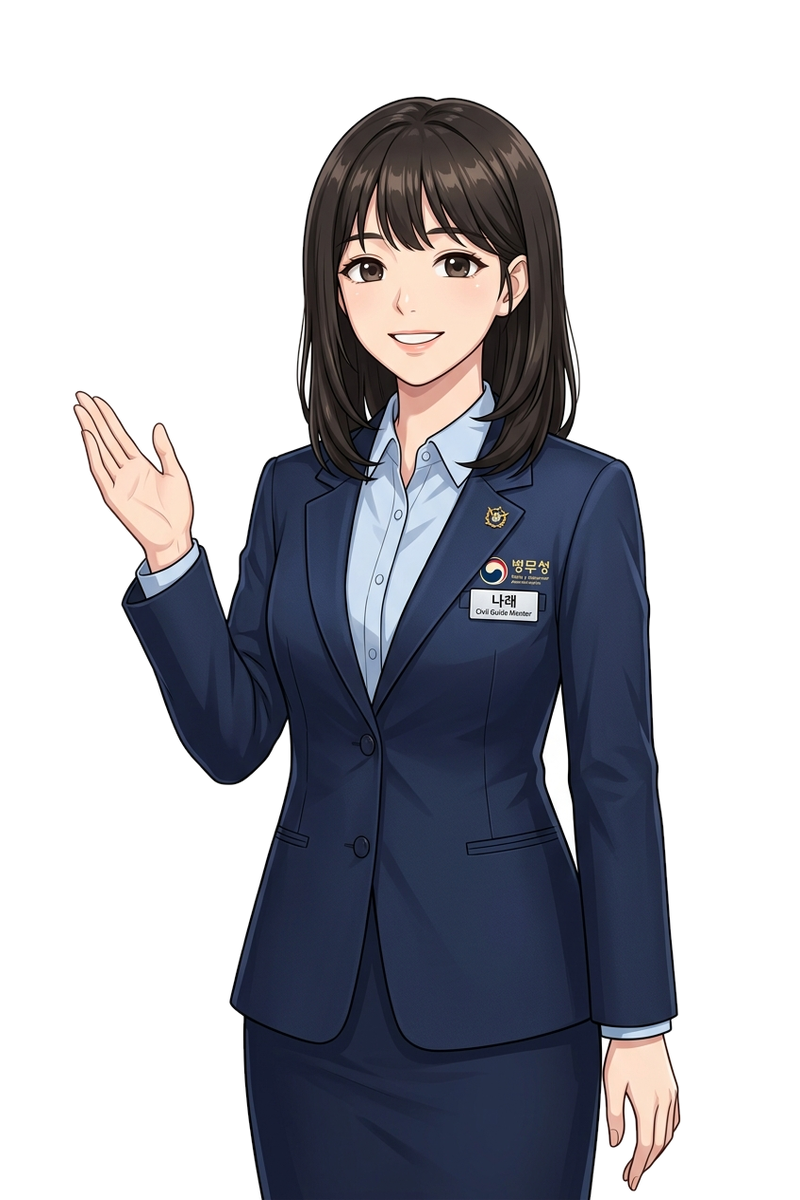
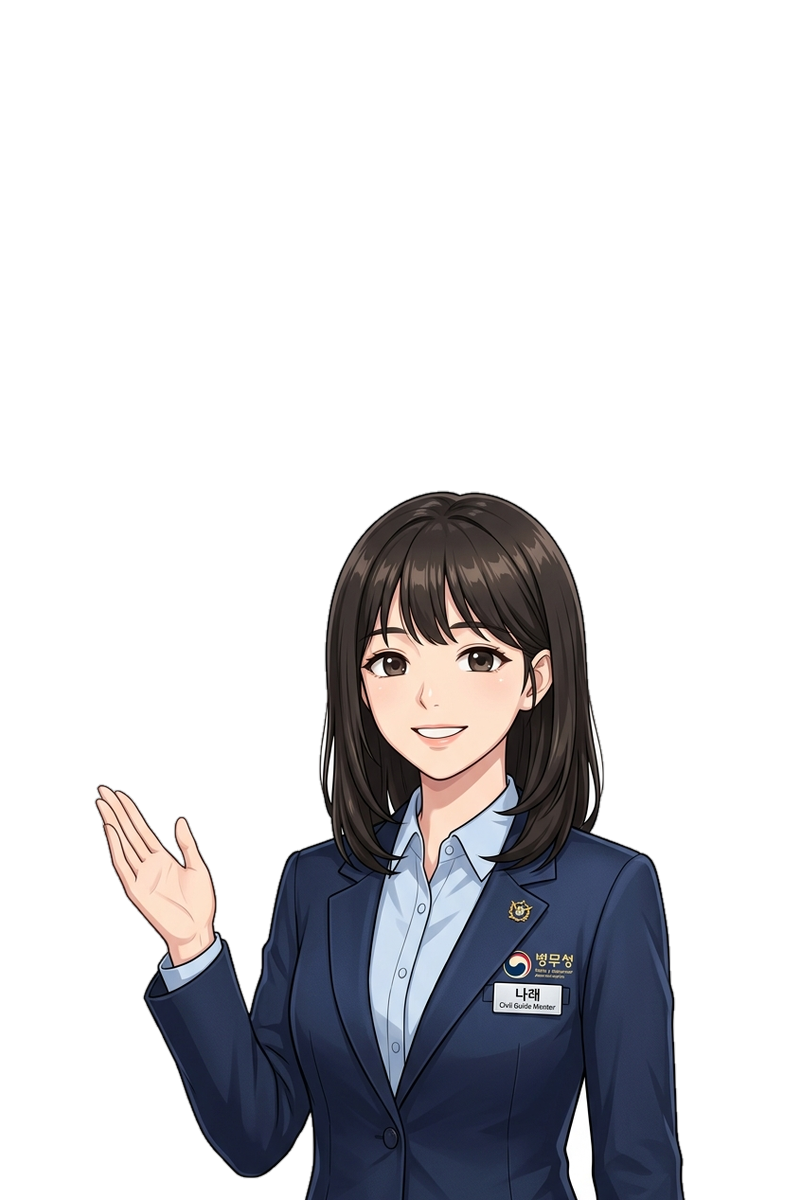
fix: normalize sprite scale/position for new mentors and resolve TTS preview bugs

diff --git a/index.html b/index.html
@@ -900,7 +900,7 @@
               </div>
             </div>
             <div class="flex items-center gap-2 shrink-0">
-              <button type="button" onclick="event.stopPropagation(); previewGuideVoice('himchan');" class="px-2.5 py-1.5 rounded-lg bg-blue-600/20 hover:bg-blue-600/40 text-blue-300 border border-blue-500/30 flex items-center gap-1 font-bold text-xs cursor-pointer transition">
+              <button id="btn-preview-settings-himchan" type="button" onclick="event.stopPropagation(); previewGuideVoice('himchan');" class="px-2.5 py-1.5 rounded-lg bg-blue-600/20 hover:bg-blue-600/40 text-blue-300 border border-blue-500/30 flex items-center gap-1 font-bold text-xs cursor-pointer transition">
                 <i data-lucide="volume-2" class="w-3.5 h-3.5"></i> <span>미리듣기</span>
               </button>
               <span class="guide-check-indicator w-5 h-5 rounded-full border border-slate-600 flex items-center justify-center shrink-0 text-blue-400"></span>
@@ -921,7 +921,7 @@
               </div>
             </div>
             <div class="flex items-center gap-2 shrink-0">
-              <button type="button" onclick="event.stopPropagation(); previewGuideVoice('narae');" class="px-2.5 py-1.5 rounded-lg bg-rose-600/20 hover:bg-rose-600/40 text-rose-300 border border-rose-500/30 flex items-center gap-1 font-bold text-xs cursor-pointer transition">
+              <button id="btn-preview-settings-narae" type="button" onclick="event.stopPropagation(); previewGuideVoice('narae');" class="px-2.5 py-1.5 rounded-lg bg-rose-600/20 hover:bg-rose-600/40 text-rose-300 border border-rose-500/30 flex items-center gap-1 font-bold text-xs cursor-pointer transition">
                 <i data-lucide="volume-2" class="w-3.5 h-3.5"></i> <span>미리듣기</span>
               </button>
               <span class="guide-check-indicator w-5 h-5 rounded-full border border-slate-600 flex items-center justify-center shrink-0 text-rose-400"></span>
@@ -942,7 +942,7 @@
               </div>
             </div>
             <div class="flex items-center gap-2 shrink-0">
-              <button type="button" onclick="event.stopPropagation(); previewGuideVoice('seojun');" class="px-2.5 py-1.5 rounded-lg bg-emerald-600/20 hover:bg-emerald-600/40 text-emerald-300 border border-emerald-500/30 flex items-center gap-1 font-bold text-xs cursor-pointer transition">
+              <button id="btn-preview-settings-seojun" type="button" onclick="event.stopPropagation(); previewGuideVoice('seojun');" class="px-2.5 py-1.5 rounded-lg bg-emerald-600/20 hover:bg-emerald-600/40 text-emerald-300 border border-emerald-500/30 flex items-center gap-1 font-bold text-xs cursor-pointer transition">
                 <i data-lucide="volume-2" class="w-3.5 h-3.5"></i> <span>미리듣기</span>
               </button>
               <span class="guide-check-indicator w-5 h-5 rounded-full border border-slate-600 flex items-center justify-center shrink-0 text-emerald-400"></span>
@@ -1062,6 +1062,8 @@
     // 가이드 캐릭터 페르소나 설정 컨트롤러
     let isFromIntroWidget = false;
     let previewAudio = null;
+    let currentPreviewId = null;
+    let previewVoiceSeq = 0;
 
     function openSettingsModal(fromIntro = false) {
       isFromIntroWidget = fromIntro;
@@ -1092,33 +1094,126 @@
     }
 
     function stopPreviewAudio() {
+      previewVoiceSeq++;
       if (previewAudio) {
         try {
           previewAudio.pause();
           previewAudio.currentTime = 0;
+          previewAudio.src = "";
         } catch (e) {}
         previewAudio = null;
       }
+      currentPreviewId = null;
+      if ('speechSynthesis' in window) {
+        try { window.speechSynthesis.cancel(); } catch (e) {}
+      }
+      resetAllPreviewButtons();
     }
 
-    function previewGuideVoice(guideId) {
+    function resetAllPreviewButtons() {
+      const isEn = (currentLang === 'en');
+      ['himchan', 'narae', 'seojun'].forEach(id => {
+        const btnIntro = document.getElementById(`btn-preview-intro-${id}`);
+        if (btnIntro) {
+          btnIntro.classList.remove('bg-amber-600/30', 'text-amber-300', 'border-amber-400');
+          btnIntro.innerHTML = `<i data-lucide="volume-2" class="w-4 h-4"></i> <span>${isEn ? 'Voice Preview' : '목소리 미리듣기'}</span>`;
+        }
+        const btnSettings = document.getElementById(`btn-preview-settings-${id}`);
+        if (btnSettings) {
+          btnSettings.classList.remove('bg-amber-600/30', 'text-amber-300', 'border-amber-400');
+          btnSettings.innerHTML = `<i data-lucide="volume-2" class="w-3.5 h-3.5"></i> <span>${isEn ? 'Preview' : '미리듣기'}</span>`;
+        }
+      });
+      if (window.lucide) lucide.createIcons();
+    }
+
+    function togglePreviewGuideVoice(guideId) {
+      // 이미 해당 멘토의 미리듣기가 재생 중이면 즉각 정지 (토글 동작)
+      if (currentPreviewId === guideId) {
+        stopPreviewAudio();
+        return;
+      }
+
       stopPreviewAudio();
-      stopVoiceAudio();
+      if (typeof stopVoiceAudio === 'function') {
+        stopVoiceAudio();
+      }
+
       if (typeof GUIDE_PERSONAS === 'undefined' || !GUIDE_PERSONAS[guideId]) return;
       const g = GUIDE_PERSONAS[guideId];
       const isEn = (currentLang === 'en');
       const text = isEn ? g.sampleQuote_en : g.sampleQuote;
+      const seq = ++previewVoiceSeq;
+      currentPreviewId = guideId;
+
+      // 버튼 시각 상태 '재생 중/정지'로 변경
+      const btnIntro = document.getElementById(`btn-preview-intro-${guideId}`);
+      if (btnIntro) {
+        btnIntro.classList.add('bg-amber-600/30', 'text-amber-300', 'border-amber-400');
+        btnIntro.innerHTML = `<i data-lucide="volume-x" class="w-4 h-4 animate-pulse"></i> <span>${isEn ? 'Stop' : '미리듣기 정지'}</span>`;
+      }
+      const btnSettings = document.getElementById(`btn-preview-settings-${guideId}`);
+      if (btnSettings) {
+        btnSettings.classList.add('bg-amber-600/30', 'text-amber-300', 'border-amber-400');
+        btnSettings.innerHTML = `<i data-lucide="volume-x" class="w-3.5 h-3.5 animate-pulse"></i> <span>${isEn ? 'Stop' : '정지'}</span>`;
+      }
+      if (window.lucide) lucide.createIcons();
+
       const ttsUrl = `/api/tts?speaker=${encodeURIComponent(g.name)}&text=${encodeURIComponent(text)}&lang=${currentLang || 'ko'}&guide=${encodeURIComponent(guideId)}`;
-      
-      previewAudio = new Audio(ttsUrl);
-      previewAudio.play().catch(err => {
-        // Fallback WebSpeech
-        if ('speechSynthesis' in window) {
-          const utterance = new SpeechSynthesisUtterance(text);
-          utterance.lang = isEn ? 'en-US' : 'ko-KR';
-          window.speechSynthesis.speak(utterance);
+      const audio = new Audio();
+      previewAudio = audio;
+
+      const finishPreview = () => {
+        if (seq === previewVoiceSeq) {
+          stopPreviewAudio();
         }
-      });
+      };
+
+      audio.onended = finishPreview;
+      audio.onerror = () => {
+        if (seq !== previewVoiceSeq) return;
+        if ('speechSynthesis' in window) {
+          try {
+            window.speechSynthesis.cancel();
+            const utterance = new SpeechSynthesisUtterance(text);
+            utterance.lang = isEn ? 'en-US' : 'ko-KR';
+            utterance.onend = finishPreview;
+            utterance.onerror = finishPreview;
+            window.speechSynthesis.speak(utterance);
+          } catch (e) {
+            finishPreview();
+          }
+        } else {
+          finishPreview();
+        }
+      };
+
+      audio.src = ttsUrl;
+      const p = audio.play();
+      if (p !== undefined) {
+        p.catch(err => {
+          if (seq !== previewVoiceSeq) return;
+          if (err.name === 'AbortError') return;
+          if ('speechSynthesis' in window) {
+            try {
+              window.speechSynthesis.cancel();
+              const utterance = new SpeechSynthesisUtterance(text);
+              utterance.lang = isEn ? 'en-US' : 'ko-KR';
+              utterance.onend = finishPreview;
+              utterance.onerror = finishPreview;
+              window.speechSynthesis.speak(utterance);
+            } catch (e) {
+              finishPreview();
+            }
+          } else {
+            finishPreview();
+          }
+        });
+      }
+    }
+
+    function previewGuideVoice(guideId) {
+      togglePreviewGuideVoice(guideId);
     }
 
     function selectGuide(guideId, silent = false) {
@@ -1130,13 +1225,13 @@
 
       updateSettingsModalUI();
 
-      // 현재 대화가 가이드의 대화라면 즉시 UI 갱신
+      // 현재 대화가 가이드의 대화라면 현재 대화만 매끄럽게 갱신 (씬을 처음부터 리셋하지 않음)
       if (currentDialogueList && currentDialogueList.length > 0 && currentDialogueIdx < currentDialogueList.length) {
         const cur = currentDialogueList[currentDialogueIdx];
         const spk = cur.speaker || '';
         const isGuide = spk.includes('힘찬이') || spk.includes('Himchan') || spk.includes('나래') || spk.includes('Narae') || spk.includes('서준') || spk.includes('Seojun') || spk.includes('가이드') || spk.includes('Guide') || (cur.char && (cur.char.includes('himchan') || cur.char.includes('narae') || cur.char.includes('seojun')));
         if (isGuide) {
-          applyScene(currentSceneIdx);
+          playDialogueChunk();
         }
       }
 
@@ -1483,10 +1578,14 @@
     initTTSVoices();
 
     function stopVoiceAudio() {
+      if (typeof stopPreviewAudio === 'function') {
+        stopPreviewAudio();
+      }
       if (currentVoiceAudio) {
         try {
           currentVoiceAudio.pause();
           currentVoiceAudio.currentTime = 0;
+          currentVoiceAudio.src = "";
         } catch (e) {}
         currentVoiceAudio = null;
       }
@@ -2647,6 +2746,8 @@
     }
 
     function confirmGuideAndProceed(guideId) {
+      stopPreviewAudio();
+      stopVoiceAudio();
       selectGuide(guideId, true);
       proceedToRegionPicker();
     }
@@ -2739,7 +2840,7 @@
 
                 <!-- 하단 버튼부 -->
                 <div class="space-y-2 pt-2 border-t border-slate-800/80">
-                  <button type="button" onclick="event.stopPropagation(); previewGuideVoice('himchan');" class="w-full py-2 px-2 rounded-xl bg-blue-600/20 hover:bg-blue-600/30 text-blue-300 border border-blue-500/30 text-xs font-bold flex items-center justify-center gap-1.5 transition cursor-pointer">
+                  <button id="btn-preview-intro-himchan" type="button" onclick="event.stopPropagation(); previewGuideVoice('himchan');" class="w-full py-2 px-2 rounded-xl bg-blue-600/20 hover:bg-blue-600/30 text-blue-300 border border-blue-500/30 text-xs font-bold flex items-center justify-center gap-1.5 transition cursor-pointer">
                     <i data-lucide="volume-2" class="w-4 h-4"></i> <span>${isEn ? 'Voice Preview' : '목소리 미리듣기'}</span>
                   </button>
                   <button type="button" onclick="event.stopPropagation(); playBeep(750, 'triangle', 0.05); confirmGuideAndProceed('himchan');" class="w-full py-2.5 px-3 rounded-xl bg-blue-600 hover:bg-blue-500 text-white font-black text-xs sm:text-sm transition flex items-center justify-center gap-1.5 shadow-lg shadow-blue-600/30 cursor-pointer">
@@ -2766,7 +2867,7 @@
 
                 <!-- 하단 버튼부 -->
                 <div class="space-y-2 pt-2 border-t border-slate-800/80">
-                  <button type="button" onclick="event.stopPropagation(); previewGuideVoice('narae');" class="w-full py-2 px-2 rounded-xl bg-rose-600/20 hover:bg-rose-600/30 text-rose-300 border border-rose-500/30 text-xs font-bold flex items-center justify-center gap-1.5 transition cursor-pointer">
+                  <button id="btn-preview-intro-narae" type="button" onclick="event.stopPropagation(); previewGuideVoice('narae');" class="w-full py-2 px-2 rounded-xl bg-rose-600/20 hover:bg-rose-600/30 text-rose-300 border border-rose-500/30 text-xs font-bold flex items-center justify-center gap-1.5 transition cursor-pointer">
                     <i data-lucide="volume-2" class="w-4 h-4"></i> <span>${isEn ? 'Voice Preview' : '목소리 미리듣기'}</span>
                   </button>
                   <button type="button" onclick="event.stopPropagation(); playBeep(750, 'triangle', 0.05); confirmGuideAndProceed('narae');" class="w-full py-2.5 px-3 rounded-xl bg-gradient-to-r from-rose-600 to-pink-600 hover:from-rose-500 hover:to-pink-500 text-white font-black text-xs sm:text-sm transition flex items-center justify-center gap-1.5 shadow-lg shadow-rose-600/30 cursor-pointer">
@@ -2793,7 +2894,7 @@
 
                 <!-- 하단 버튼부 -->
                 <div class="space-y-2 pt-2 border-t border-slate-800/80">
-                  <button type="button" onclick="event.stopPropagation(); previewGuideVoice('seojun');" class="w-full py-2 px-2 rounded-xl bg-emerald-600/20 hover:bg-emerald-600/30 text-emerald-300 border border-emerald-500/30 text-xs font-bold flex items-center justify-center gap-1.5 transition cursor-pointer">
+                  <button id="btn-preview-intro-seojun" type="button" onclick="event.stopPropagation(); previewGuideVoice('seojun');" class="w-full py-2 px-2 rounded-xl bg-emerald-600/20 hover:bg-emerald-600/30 text-emerald-300 border border-emerald-500/30 text-xs font-bold flex items-center justify-center gap-1.5 transition cursor-pointer">
                     <i data-lucide="volume-2" class="w-4 h-4"></i> <span>${isEn ? 'Voice Preview' : '목소리 미리듣기'}</span>
                   </button>
                   <button type="button" onclick="event.stopPropagation(); playBeep(750, 'triangle', 0.05); confirmGuideAndProceed('seojun');" class="w-full py-2.5 px-3 rounded-xl bg-gradient-to-r from-emerald-600 to-teal-600 hover:from-emerald-500 hover:to-teal-500 text-white font-black text-xs sm:text-sm transition flex items-center justify-center gap-1.5 shadow-lg shadow-emerald-600/30 cursor-pointer">

diff --git a/scenario.js b/scenario.js
@@ -26,8 +26,8 @@ const GUIDE_PERSONAS = {
       smile: "assets/himchan_smile.png",
       cheer: "assets/himchan_cheer.png"
     },
-    sampleQuote: "충성! 안녕하십니까! 여러분의 든든한 병역 길라잡이 힘찬이입니다! 오늘 검사도 자신감 있게 파이팅해 볼까요?!",
-    sampleQuote_en: "Salute! Hello! I'm your energetic guide Himchan! Let's take on today's examination with full confidence!"
+    sampleQuote: "충성! 열혈 멘토 힘찬이입니다! 오늘 검사도 파이팅!",
+    sampleQuote_en: "Salute! I'm your energetic guide Himchan! Let's do this!"
   },
   narae: {
     id: "narae",
@@ -51,8 +51,8 @@ const GUIDE_PERSONAS = {
       smile: "assets/narae_smile.png",
       cheer: "assets/narae_smile.png"
     },
-    sampleQuote: "안녕하세요! 병역판정검사가 낯설고 긴장되시죠? 제가 곁에서 차근차근 알기 쉽게 도와드릴 테니 편안하게 따라와 주세요 :)",
-    sampleQuote_en: "Hello! Feeling a bit nervous about the physical exam? Don't worry at all, I'll guide you step by step with care :)"
+    sampleQuote: "안녕하세요! 안심 멘토 나래입니다. 편안하게 따라와 주세요 :)",
+    sampleQuote_en: "Hello! I'm Narae, your friendly counselor. Follow me comfortably!"
   },
   seojun: {
     id: "seojun",
@@ -76,8 +76,8 @@ const GUIDE_PERSONAS = {
       smile: "assets/seojun_smile.png",
       cheer: "assets/seojun_smile.png"
     },
-    sampleQuote: "반갑습니다. 병무청 공공데이터와 법령 규정을 토대로 정확하고 신속한 검사 진행을 책임지는 AI 멘토 서준입니다. 효율적인 검사를 시작하겠습니다.",
-    sampleQuote_en: "Greetings. I am AI mentor Seojun, dedicated to providing precise and efficient procedures based on official data and regulations. Let's proceed."
+    sampleQuote: "반갑습니다. 스마트 멘토 서준입니다. 정확하게 안내하겠습니다.",
+    sampleQuote_en: "Greetings. I'm smart mentor Seojun. Let's proceed accurately."
   }
 };
 
